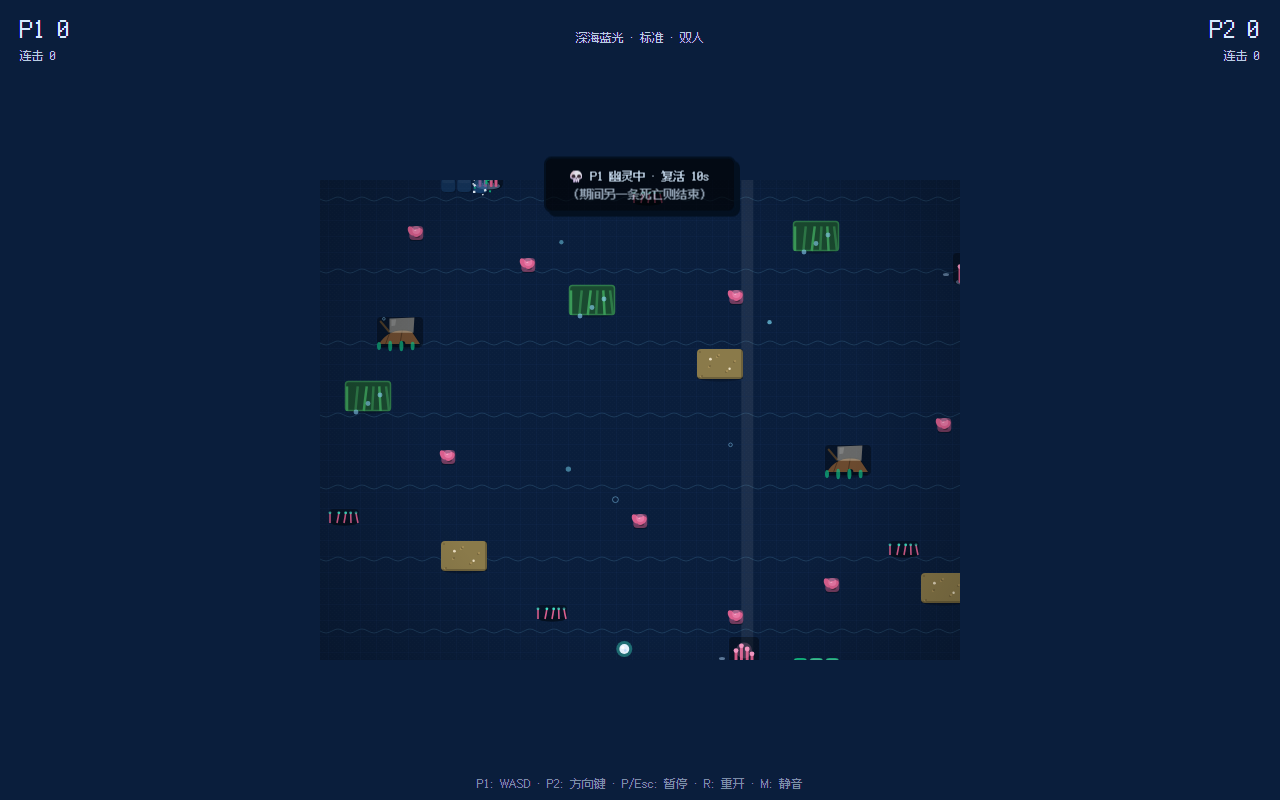
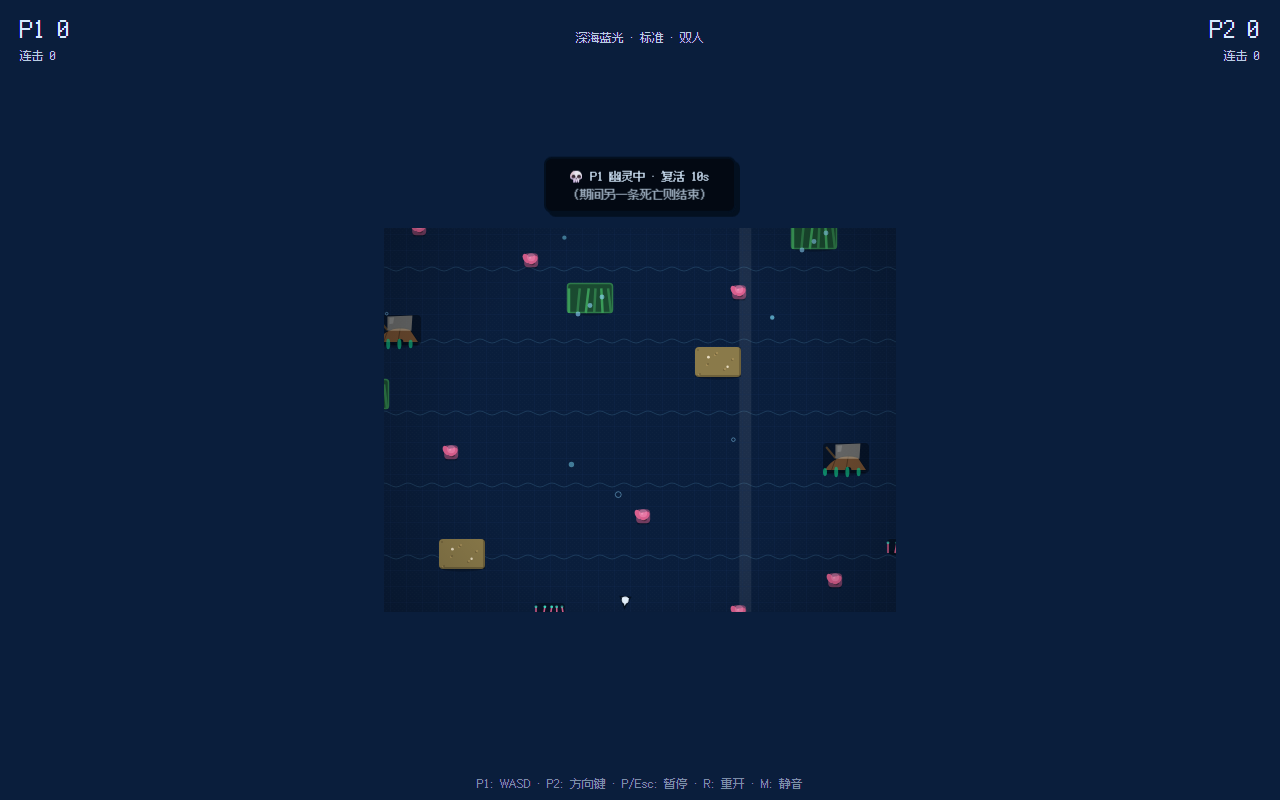
fix: 双人缩放丝滑化（限速+h由w推导+显示过渡）+ 边距8格+视野封顶整图+clamp按当前视野

diff --git a/src/render/camera.test.ts b/src/render/camera.test.ts
@@ -2,13 +2,15 @@
 // render/camera.test.ts —— 相机/动态缩放测试（docs/13）
 // ============================================================
 import { describe, expect, it } from "vitest"
-import { MAX_VIEW_W, MIN_VIEW_W, calcCoopView, clampCam, VIEW_ASPECT } from "./camera"
+import { MAX_VIEW_W, MIN_VIEW_W, calcCoopView, clampCam, VIEW_ASPECT, VIEW_W } from "./camera"
 
 describe("calcCoopView", () => {
-  it("双蛇距离近 → 最小视野（放大）", () => {
+  it("双蛇距离近 → 最小视野附近（margin 8 主导：25.3 格）", () => {
     const v = calcCoopView(3, 3)
-    expect(v.w).toBe(MIN_VIEW_W)
-    expect(v.h).toBeCloseTo(MIN_VIEW_W / VIEW_ASPECT)
+    // needW = max(3+16, (3+16)*4/3) = 25.33
+    expect(v.w).toBeGreaterThanOrEqual(MIN_VIEW_W)
+    expect(v.w).toBeCloseTo(25.33, 0)
+    expect(v.h).toBeCloseTo(v.w / VIEW_ASPECT)
   })
 
   it("双蛇距离远 → 视野拉远（缩小）", () => {
@@ -22,15 +24,21 @@ describe("calcCoopView", () => {
     expect(v.h).toBeCloseTo(v.w / VIEW_ASPECT)
   })
 
-  it("封顶 MAX_VIEW_W", () => {
-    const v = calcCoopView(80, 60)
+  it("封顶 MAX_VIEW_W（整图）", () => {
+    const v = calcCoopView(45, 30)
     expect(v.w).toBe(MAX_VIEW_W)
   })
 
-  it("横向距离主导时按宽度", () => {
+  it("横向距离主导时按宽度 + margin 双侧（docs/13）", () => {
     const v = calcCoopView(25, 3)
-    // 需要 25+5=30 > 最小，按宽度
-    expect(v.w).toBe(30)
+    // 需要 25 + 8*2 = 41 > 最小，按宽度
+    expect(v.w).toBe(41)
+  })
+
+  it("margin 保证蛇离视野边缘有距离（docs/13 边距修复）", () => {
+    const v = calcCoopView(10, 10)
+    // needW = max(10+16, (10+16)*4/3) = 34.67（高向主导）
+    expect(v.w).toBeCloseTo(26 * VIEW_ASPECT, 0)
   })
 })
 
@@ -40,9 +48,21 @@ describe("clampCam", () => {
     expect(c).toEqual({ x: 100, y: 50 })
   })
 
-  it("超出地图边缘被夹回", () => {
+  it("超出地图边缘被夹回（默认视野）", () => {
     const c = clampCam(999, -10, 768, 576)
-    expect(c.x).toBe(768 - 24 * 16)
+    expect(c.x).toBe(768 - VIEW_W * 16)
+    expect(c.y).toBe(0)
+  })
+
+  it("大视野（40 格宽）时 clamp 上限更小（docs/13 修复：按当前视野计算）", () => {
+    const c = clampCam(999, 999, 768, 576, 40, 30)
+    expect(c.x).toBe(768 - 40 * 16)
+    expect(c.y).toBe(576 - 30 * 16)
+  })
+
+  it("视野大于地图时 clamp 到 0（全图视野）", () => {
+    const c = clampCam(100, 100, 768, 576, MAX_VIEW_W, 36)
+    expect(c.x).toBe(0)
     expect(c.y).toBe(0)
   })
 })

diff --git a/src/render/camera.ts b/src/render/camera.ts
@@ -36,10 +36,17 @@ export function centerOffset(
   }
 }
 
-/** 相机边界 clamp（视野不超出地图） */
-export function clampCam(camX: number, camY: number, mapPxW: number, mapPxH: number): { x: number; y: number } {
-  const maxX = Math.max(0, mapPxW - VIEW_PX_W)
-  const maxY = Math.max(0, mapPxH - VIEW_PX_H)
+/** 相机边界 clamp（视野不超出地图；viewW/viewH 为当前视野格数，docs/13 修复） */
+export function clampCam(
+  camX: number,
+  camY: number,
+  mapPxW: number,
+  mapPxH: number,
+  viewW = VIEW_W,
+  viewH = VIEW_H,
+): { x: number; y: number } {
+  const maxX = Math.max(0, mapPxW - viewW * CELL)
+  const maxY = Math.max(0, mapPxH - viewH * CELL)
   return {
     x: Math.min(Math.max(0, camX), maxX),
     y: Math.min(Math.max(0, camY), maxY),
@@ -48,9 +55,9 @@ export function clampCam(camX: number, camY: number, mapPxW: number, mapPxH: num
 
 // ---------- 动态缩放（docs/13：双人距离远时拉远视野） ----------
 
-/** 视野格数范围（最小=放大，最大=缩小） */
+/** 视野格数范围（最小=放大，最大=整图） */
 export const MIN_VIEW_W = 20
-export const MAX_VIEW_W = 40
+export const MAX_VIEW_W = 48 // 整图宽（48×36），两蛇任意位置都可见
 export const VIEW_ASPECT = VIEW_W / VIEW_H // 4:3
 
 export interface ViewSize {
@@ -60,14 +67,14 @@ export interface ViewSize {
 
 /**
  * 双人动态视野：基于两蛇包围盒计算所需视野。
- * 需要容纳 包围盒 + margin 边距，并保持 4:3 比例；clamp 到 [MIN, MAX]。
+ * 需要容纳 包围盒 + margin 边距（docs/13：左右视野余量），并保持 4:3 比例；clamp 到 [MIN, MAX]。
  */
 export function calcCoopView(
   boxW: number,
   boxH: number,
-  margin = 5,
+  margin = 8,
 ): ViewSize {
-  const needW = Math.max(boxW + margin, (boxH + margin) * VIEW_ASPECT)
+  const needW = Math.max(boxW + margin * 2, (boxH + margin * 2) * VIEW_ASPECT)
   const w = Math.min(Math.max(needW, MIN_VIEW_W), MAX_VIEW_W)
   return { w, h: w / VIEW_ASPECT }
 }

diff --git a/src/render/renderer.ts b/src/render/renderer.ts
@@ -4,7 +4,7 @@
 // 纯绘制，不依赖 React；状态经 EngineView 传入
 // ============================================================
 import type { Cell, Direction, SnakeState, Theme } from "../game/core/types"
-import { CELL, VIEW_PX_H, VIEW_PX_W, VIEW_H, VIEW_W, calcCoopView, clampCam, fitScale, type ViewSize } from "./camera"
+import { CELL, VIEW_PX_H, VIEW_PX_W, VIEW_H, VIEW_W, VIEW_ASPECT, calcCoopView, clampCam, fitScale, type ViewSize } from "./camera"
 import { DIFFICULTY_PRESETS } from "../game/core/constants"
 import { obstacleCell } from "../game/core/obstacles"
 import { drawAo, drawObstacleShape, renderStaticLayer } from "./staticLayer"
@@ -96,8 +96,12 @@ export class Renderer {
       const b = view.snakes[1].body[0]
       targetView = calcCoopView(Math.abs(a.x - b.x) + 1, Math.abs(a.y - b.y) + 1)
     }
-    this.viewW += (targetView.w - this.viewW) * Math.min(1, dt * 3)
-    this.viewH += (targetView.h - this.viewH) * Math.min(1, dt * 3)
+    // 平滑缩放（docs/13 丝滑化）：指数衰减 + 每帧限速；h 由 w 推导保持 4:3 同步
+    const diff = targetView.w - this.viewW
+    const maxStep = 4 * dt // 每帧最多变化 4 格/秒
+    const step = Math.max(-maxStep, Math.min(maxStep, diff * dt * 3))
+    this.viewW += step
+    this.viewH = this.viewW / VIEW_ASPECT
     // canvas 尺寸随视野变化（整数格）
     const vw = Math.round(this.viewW)
     const vh = Math.round(this.viewH)
@@ -125,7 +129,7 @@ export class Renderer {
       return { x: tx - vw * CELL / 2, y: ty - vh * CELL / 2 }
     }
     const target = follow()
-    const cam = clampCam(target.x, target.y, mapPxW, mapPxH)
+    const cam = clampCam(target.x, target.y, mapPxW, mapPxH, vw, vh)
     this.camX += (cam.x - this.camX) * Math.min(1, dt * 6)
     this.camY += (cam.y - this.camY) * Math.min(1, dt * 6)
 

diff --git a/src/ui/theme.css b/src/ui/theme.css
@@ -214,6 +214,11 @@ button {
   min-height: 0;
 }
 
+/* 画布显示尺寸平滑过渡（docs/13 缩放丝滑化：整数倍档位切换时 0.25s 缓动） */
+.game-canvas-wrap canvas {
+  transition: width 0.25s ease, height 0.25s ease;
+}
+
 .game-hint {
   text-align: center;
   font-size: 12px;
